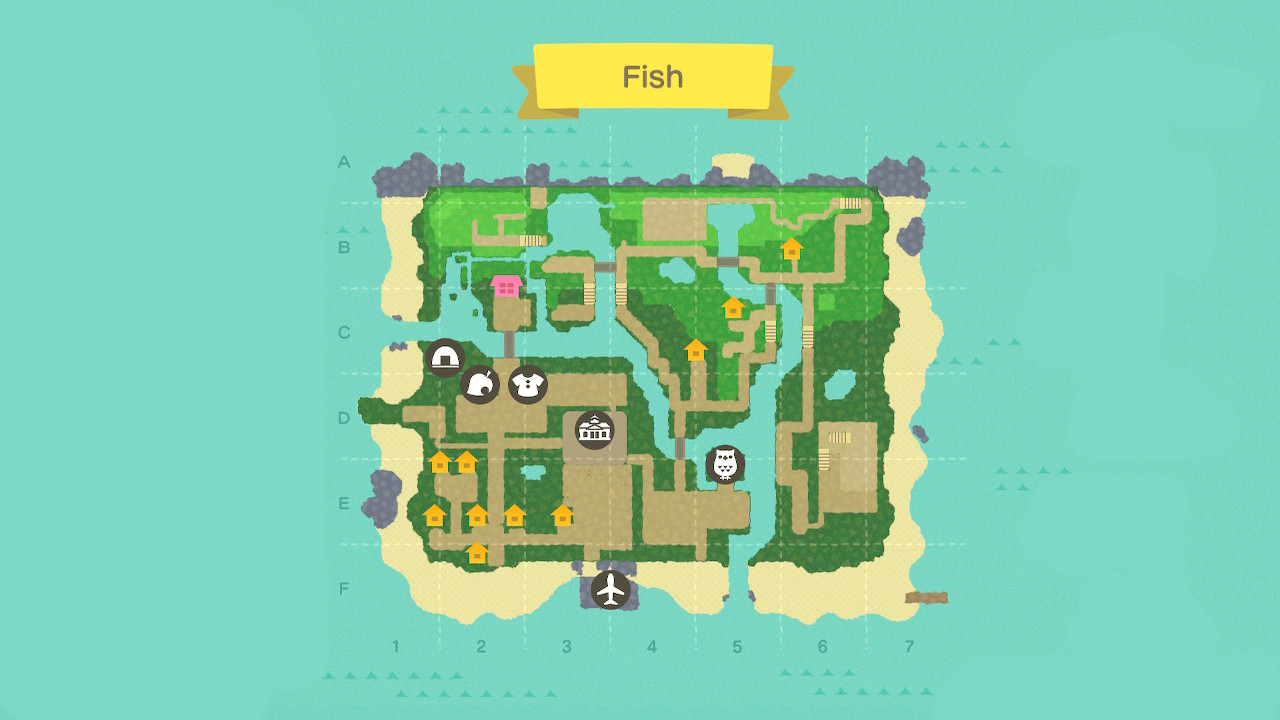
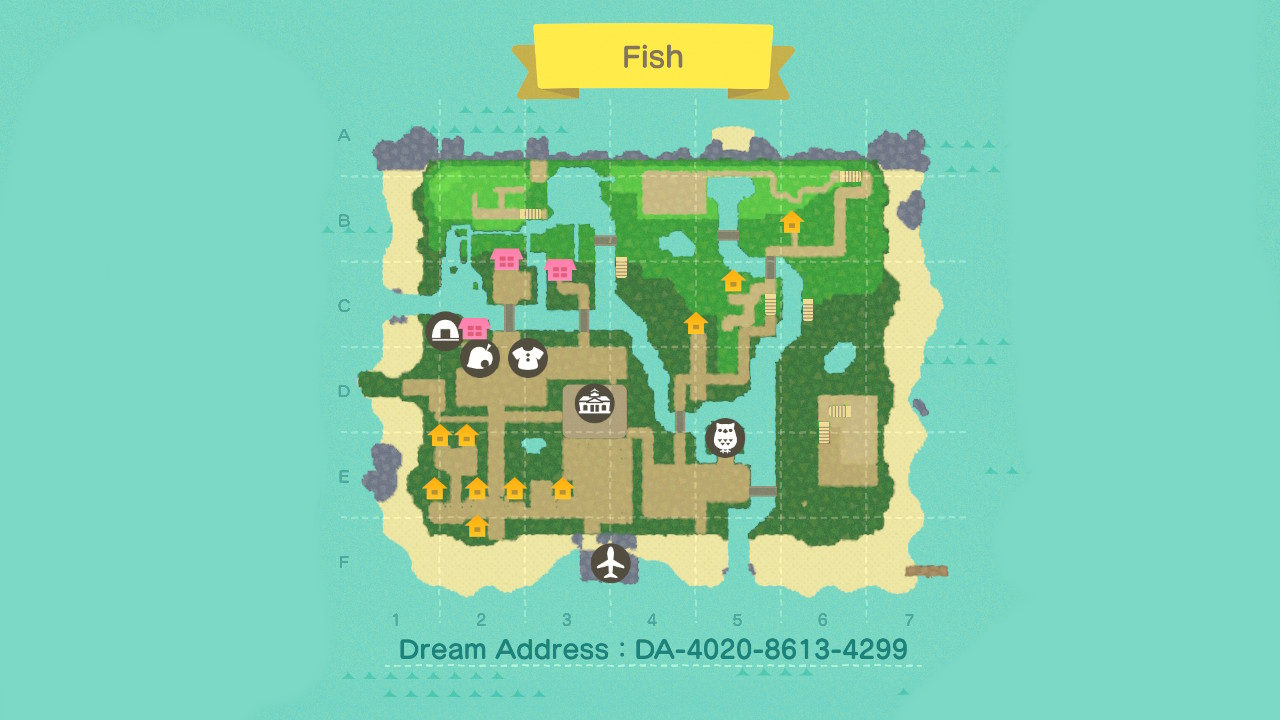
Updated map and added dream address

Changed region(s): [[0.25, 0.0306, 0.7812, 0.9778]]

diff --git a/index.html b/index.html
@@ -78,7 +78,8 @@ setInterval(function(){
 		<h1>Welcome to Fish!</h1>
 		<p>Fish is an island in <a href="http://www.animal-crossing.com/new-horizons/">Animal Crossing: New Horizons</a></p>
 		
-		<p>Fish's rating is ★★★★★</p>
+		<p>Fish's rating is: ★★★★★</p>
+		<p>Fish's Dream Address is: DA-4020-8613-4299</p>
 		<div id="map">
 		<img src="img/map.png" width=100% id="map">
 		</div>
@@ -156,6 +157,7 @@ setInterval(function(){
 		<!-- Visiting section -->
 		<div id="visiting">
 		<h1>Visiting</h1>
+		<p>NOTICE: Fish's Dream Address is now available! Check the top of our site for details.</p>
 		<p>If you are interested, feel free to follow and contact our <a href="https://twitter.com/GovernorFish">Twitter</a>
 		<!-- <img src="https://pbs.twimg.com/media/EVQaBH0UcAAg96A?format=jpg&name=large" title="The Campsite" align="center" width=560 id="screenshot"> -->
 		<p>• Fish's official language is English(UK)</p>
